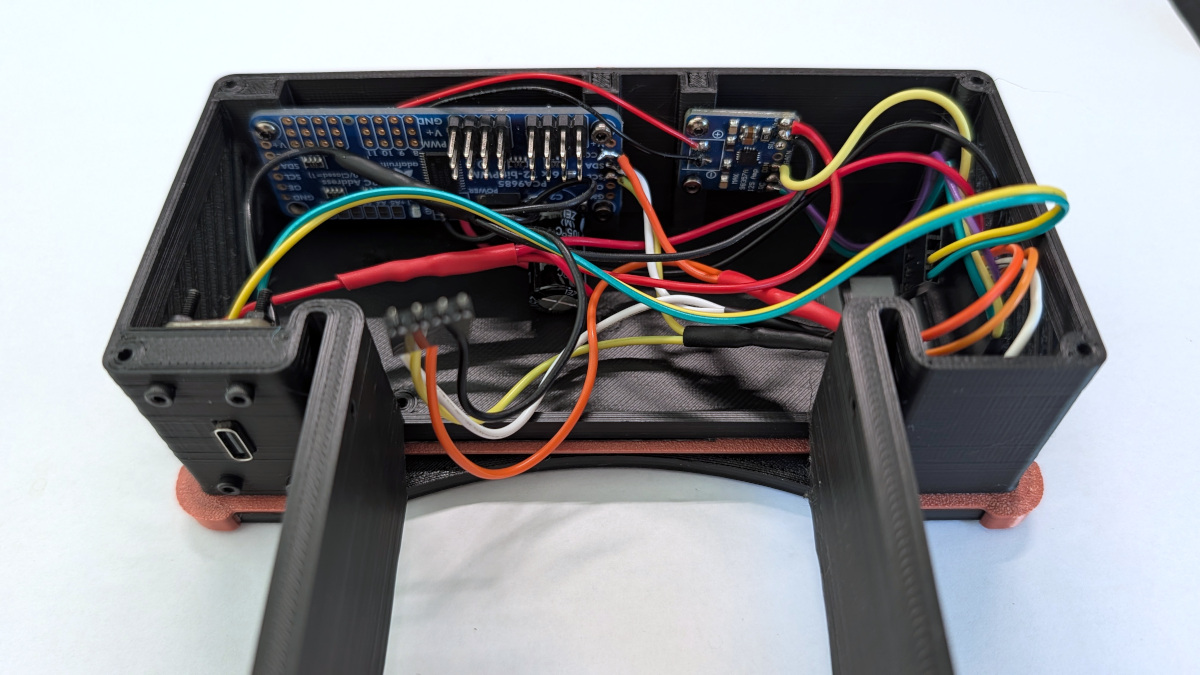
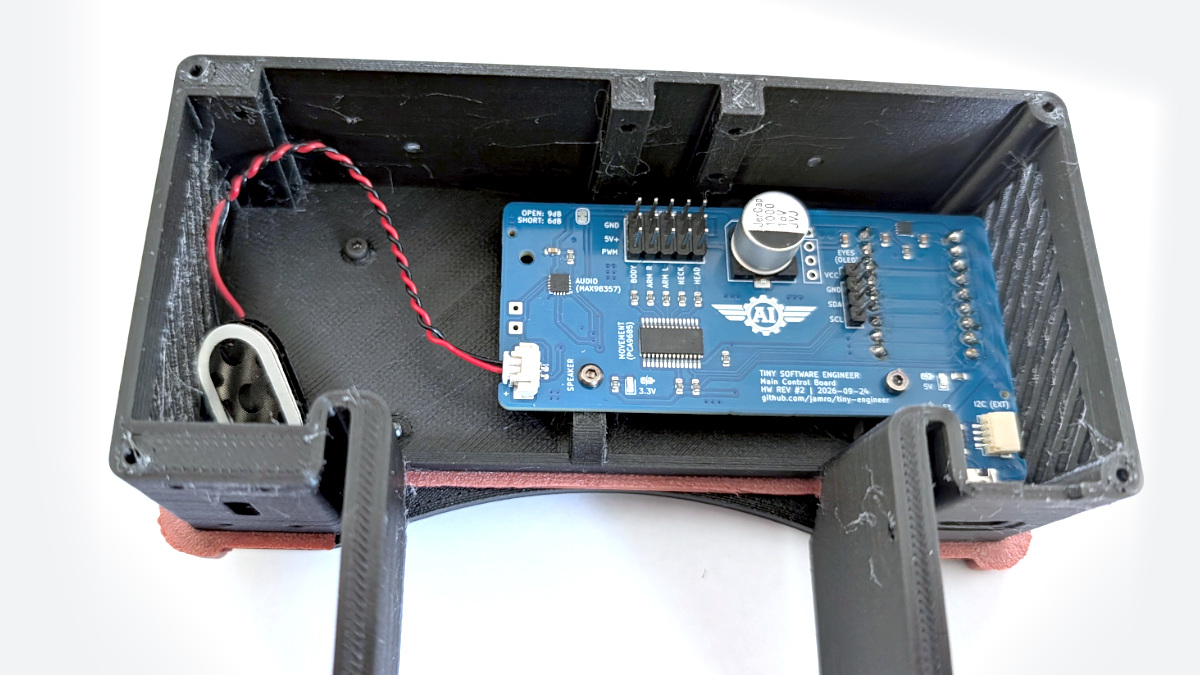
docs(pcb): update assembly guide using photos of main control board

diff --git a/docs/3d/assembly.md b/docs/3d/assembly.md
@@ -180,7 +180,7 @@ Seat the **main control board** in `Desk`. This step mounts what you already con
 Easiest with the desk tipped onto its front wall so the servo headers face up, and the seated robot body beside it.
 
 1. Plug every servo lead and the OLED cable into the labeled board headers ([main-control-board.md](../hardware/main-control-board.md)). Breakout build: plug them into the PCA9685 and the harness — [assembly-modular.md](assembly-modular.md).
-2. Use the correct PCA9685 channel order ([pinout](../hardware/pinout.md#pca9685-channels-not-esp32-gpio)):
+2. Use the correct PCA9685 channel order following labels on the board ([pinout](../hardware/pinout.md#pca9685-channels-not-esp32-gpio)):
 
    | Channel | Joint |
    | --- | --- |
@@ -190,15 +190,6 @@ Easiest with the desk tipped onto its front wall so the servo headers face up, a
    | 3 | Right hand |
    | 4 | Body / torso |
 
-   The left-to-right order through `Belly` is only an ID aid — **not** the channel sequence. Map explicitly:
-
-   | Lead (as routed through Belly) | Channel |
-   | --- | --- |
-   | Left hand | 2 |
-   | Neck | 1 |
-   | Right hand | 3 |
-
-   Head pitch → channel **0**. Body / torso (Belly servo under the chair) → channel **4**.
 3. Power up and run a **servos + OLED smoke test**: servos respond, OLED shows something sensible, no brown-out or odd movement. If something is wrong, power down before swapping plugs.
 
 ![Desk](./assembly_visuals/electronics_3.jpg)
